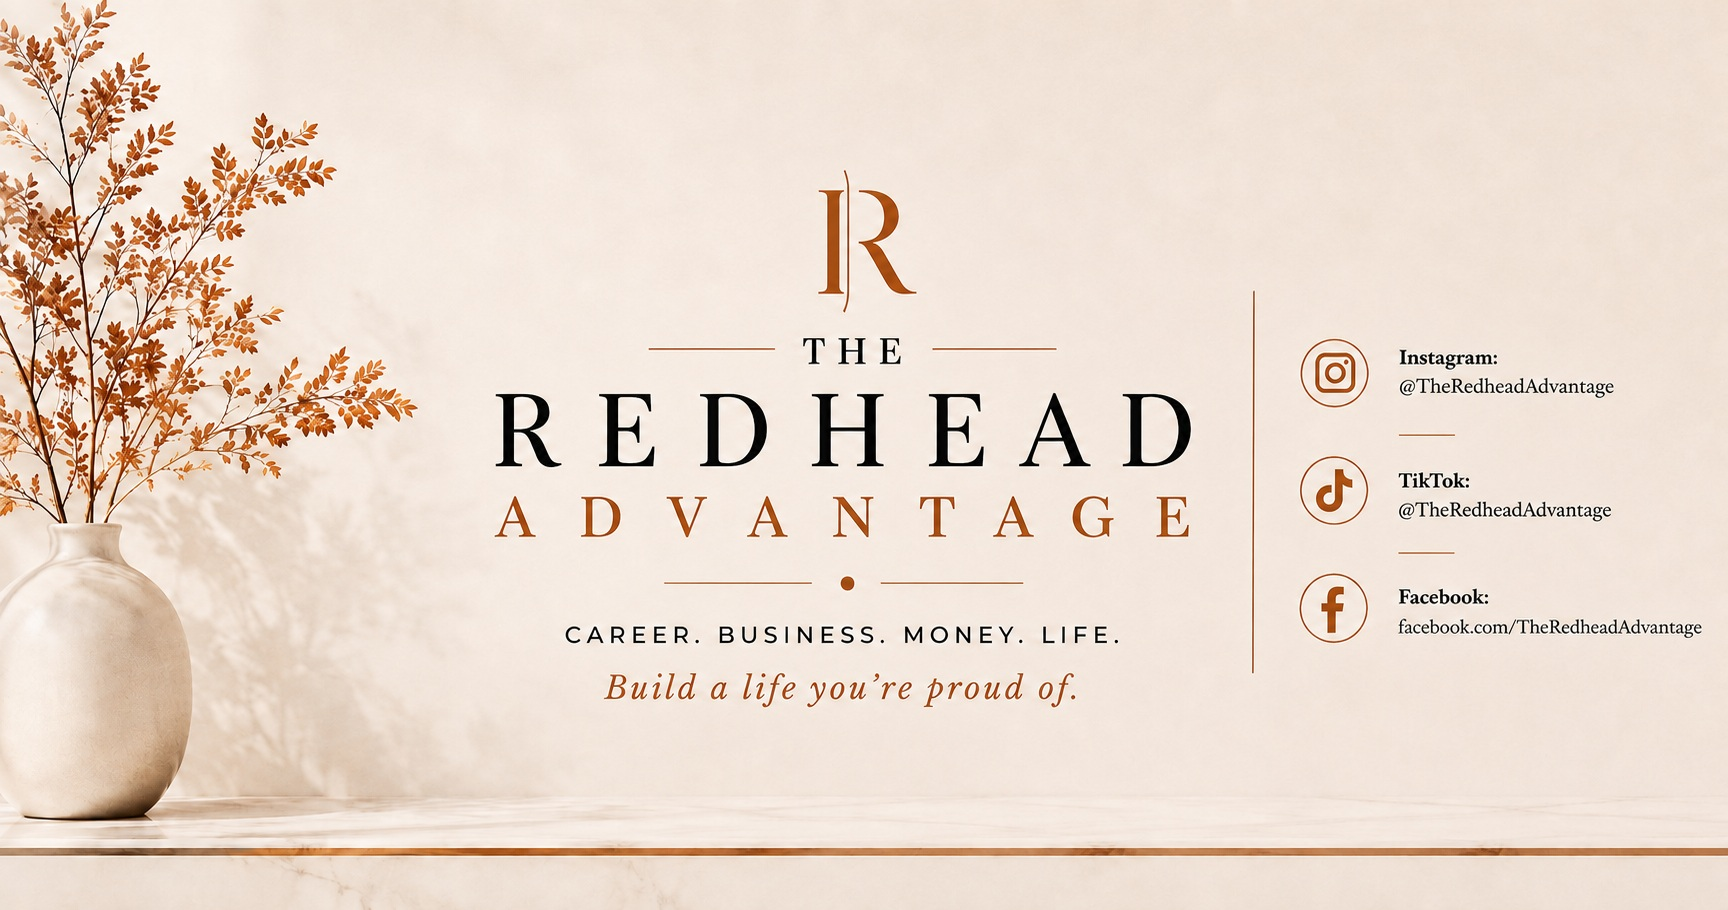
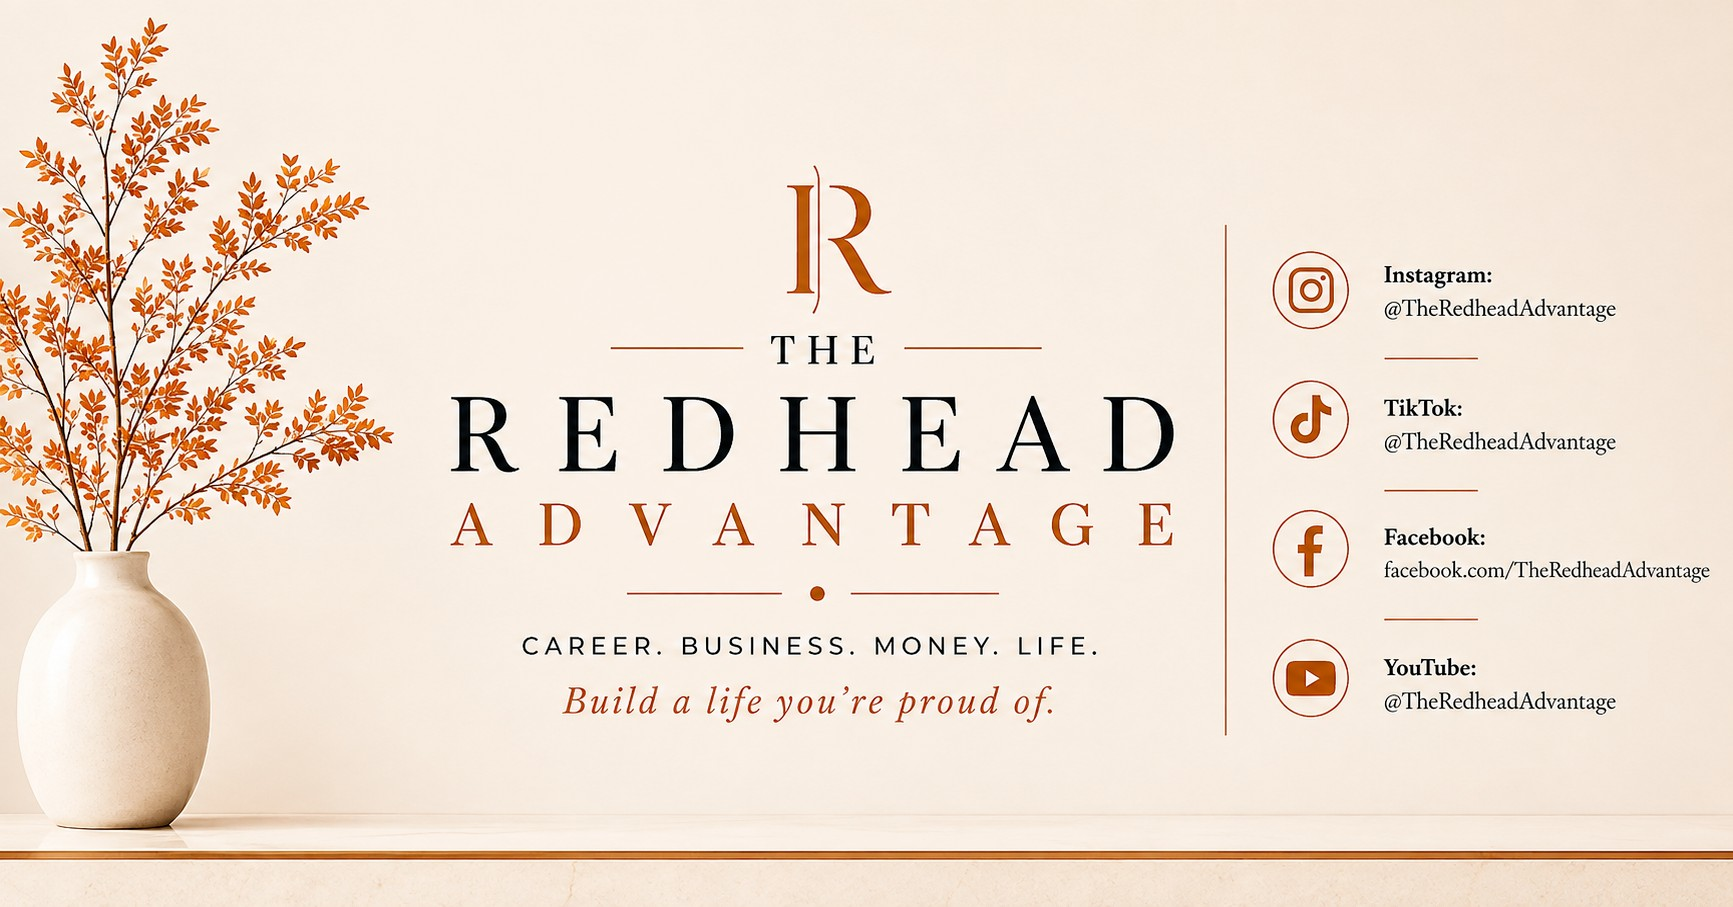
Add files via upload

diff --git a/index.html b/index.html
@@ -128,6 +128,7 @@ gtag('consent','default',{'analytics_storage':'denied','ad_storage':'denied','ad
       <a href="https://www.instagram.com/theredheadadvantage/" target="_blank" rel="noopener noreferrer">Instagram</a>
       <a href="https://www.tiktok.com/@theredheadadvantage" target="_blank" rel="noopener noreferrer">TikTok</a>
       <a href="https://www.facebook.com/TheRedheadAdvantage" target="_blank" rel="noopener noreferrer">Facebook</a>
+      <a href="https://www.youtube.com/@TheRedheadAdvantage" target="_blank" rel="noopener noreferrer">YouTube</a>
       <a href="mailto:hello@theredheadadvantage.com">hello@theredheadadvantage.com</a>
     </div>
     <div>
